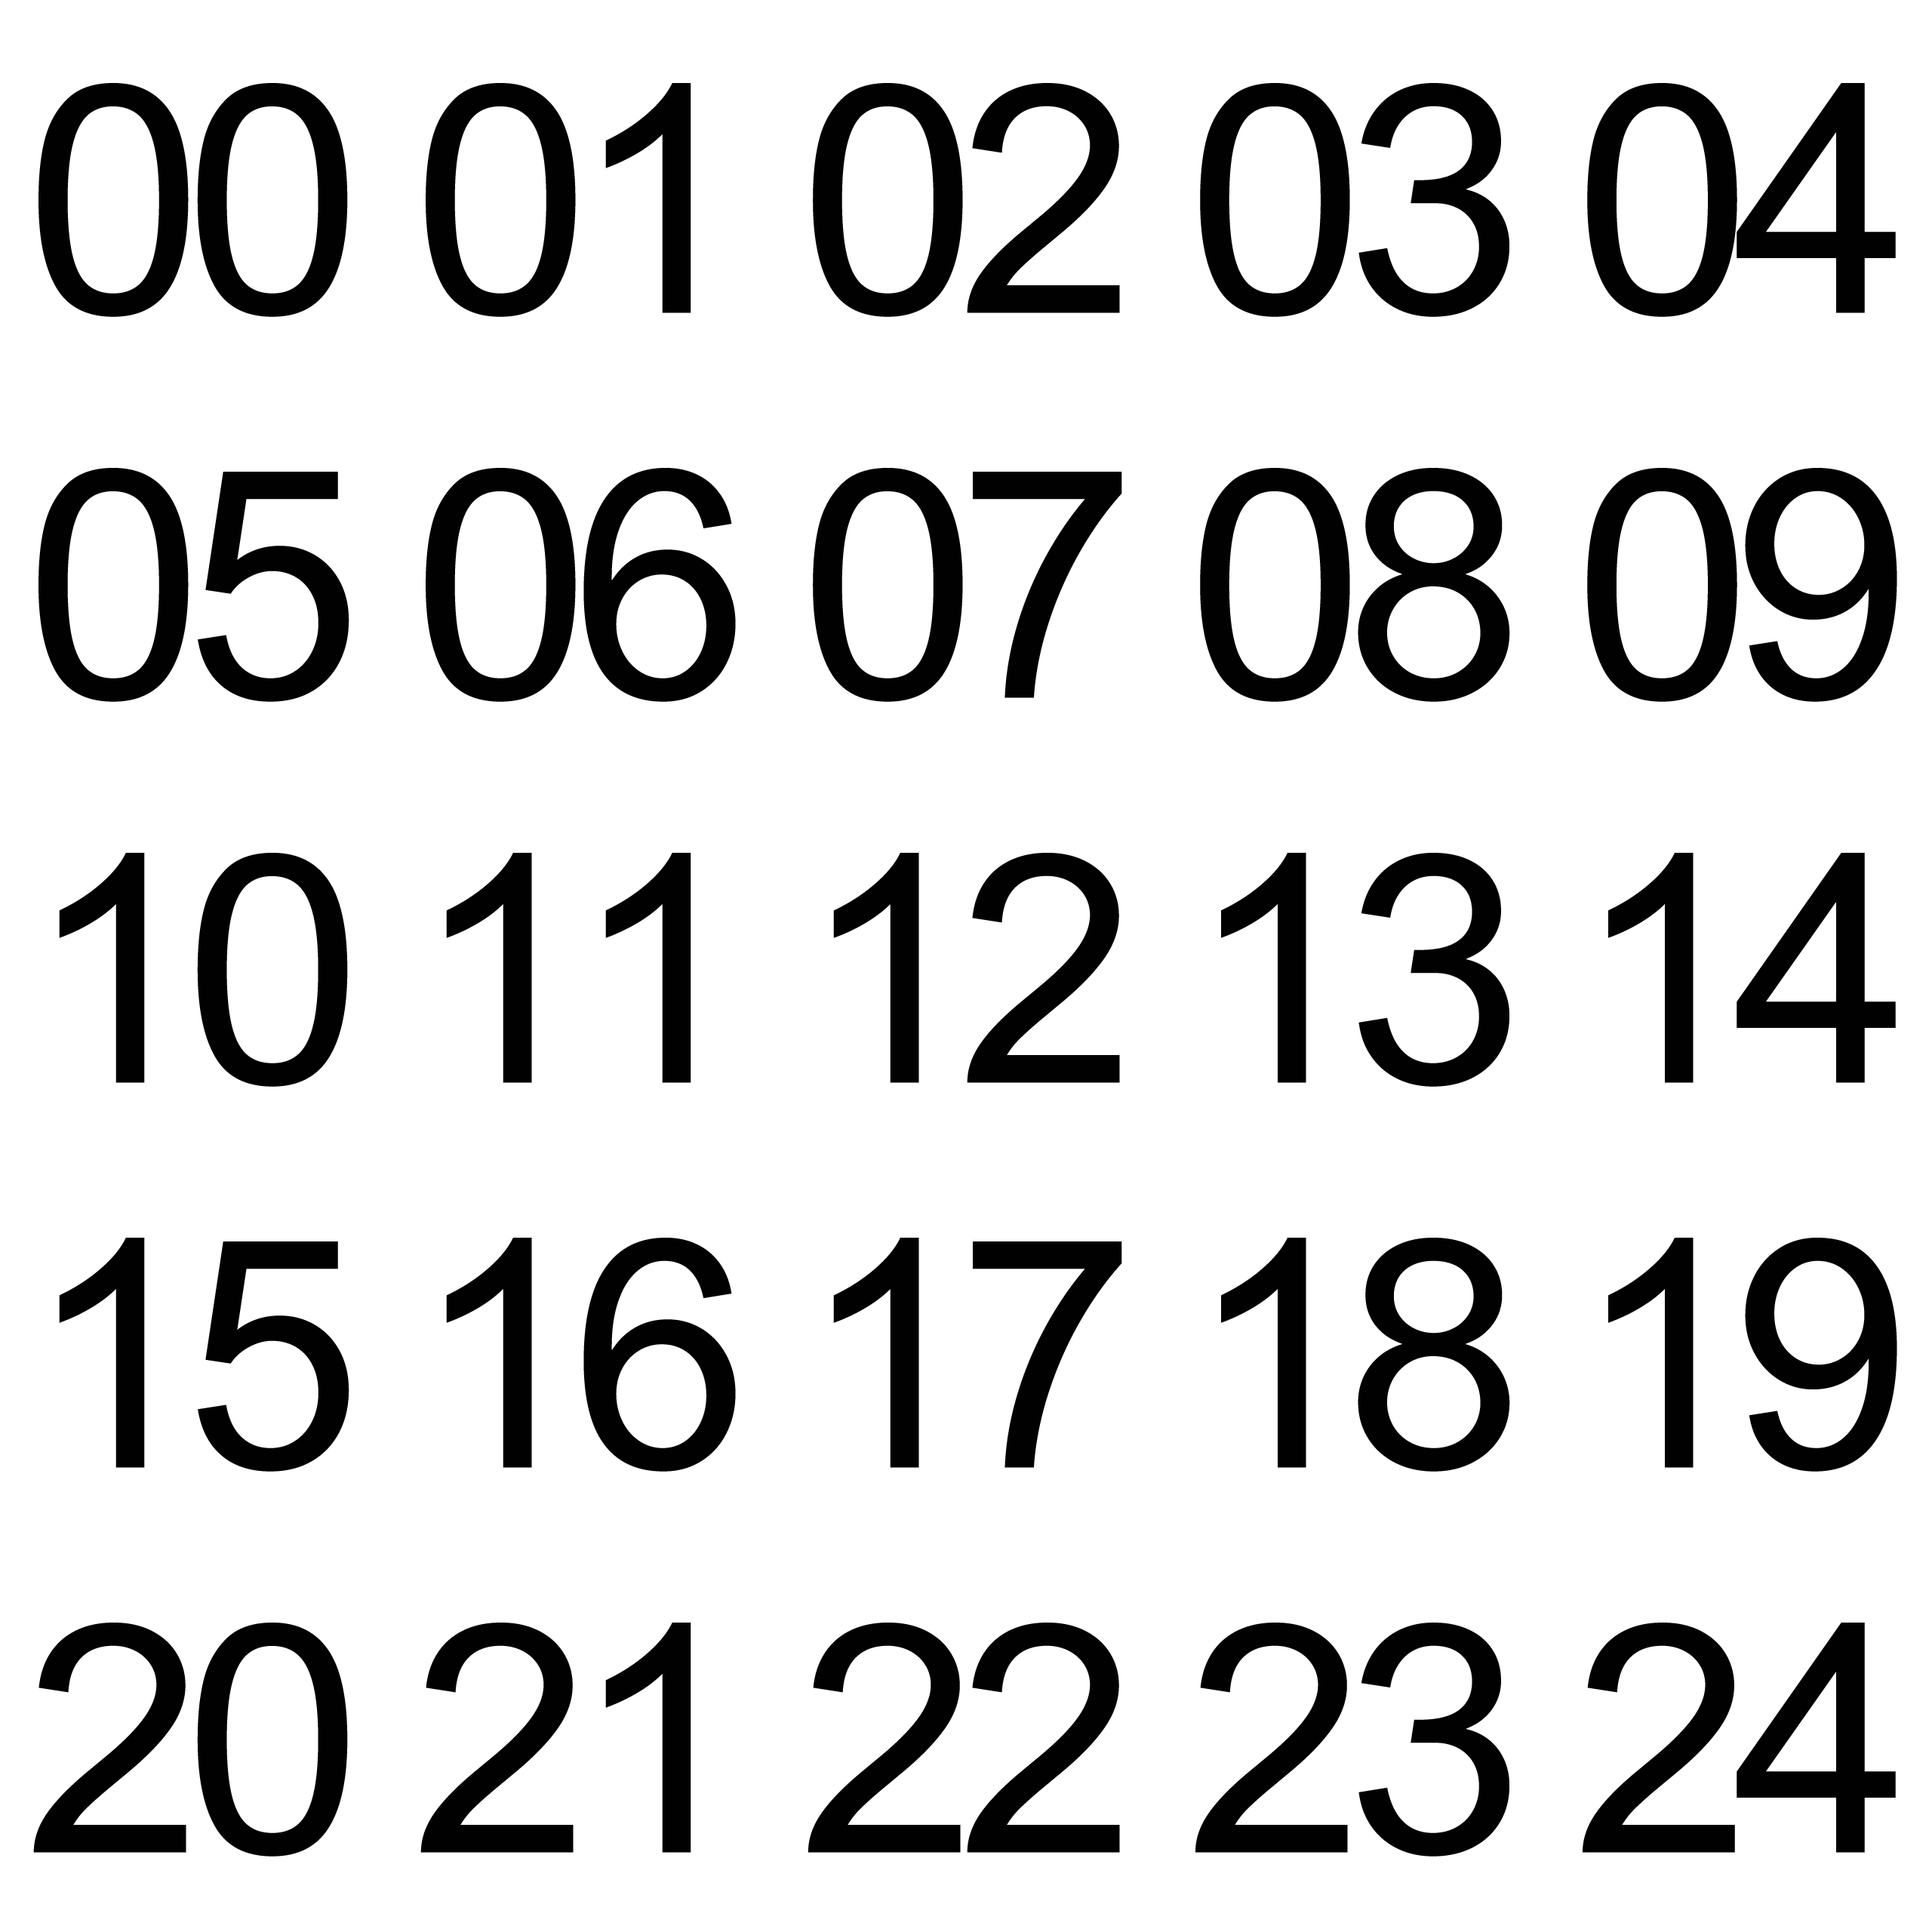
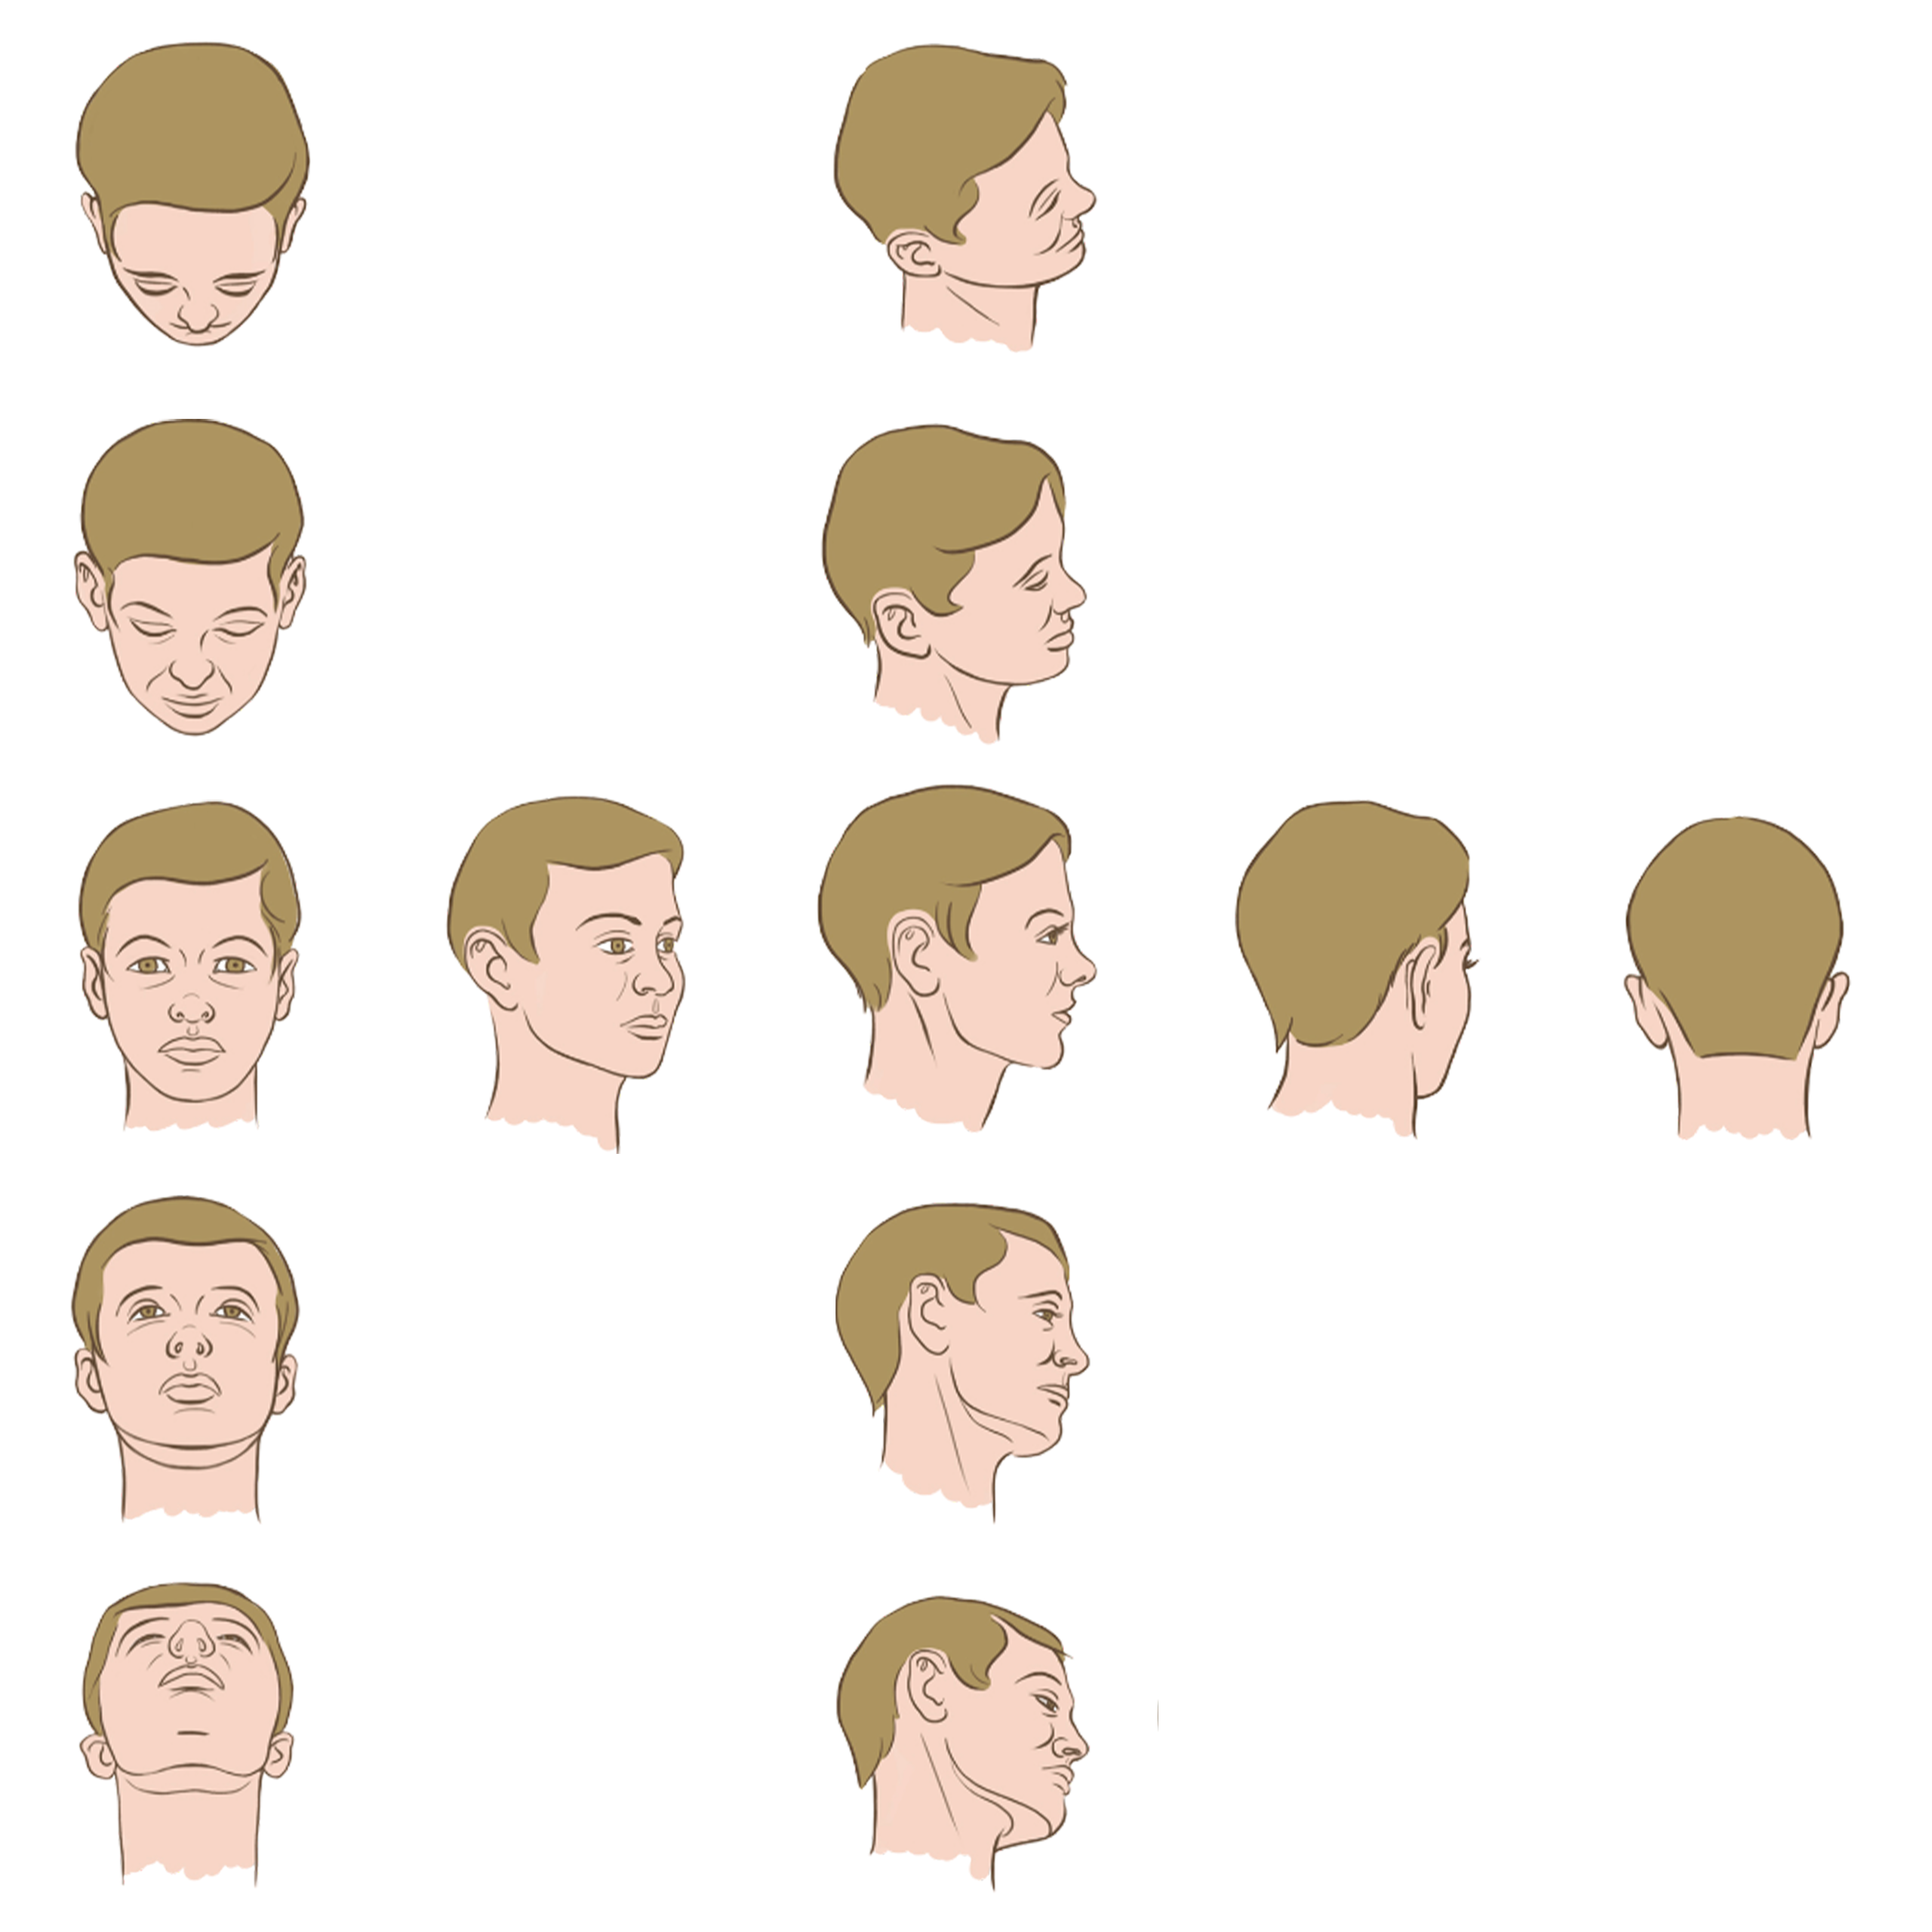
ignore

diff --git a/RayPuppet3D/main.c b/RayPuppet3D/main.c
@@ -494,13 +494,13 @@ int main(void)
         bool mirrored = false;
         switch(sector) {
             case 0: baseCol = 0; break;
-            case 1: baseCol = 1; break;
-            case 2: baseCol = 2; break;
-            case 3: baseCol = 3; break;
+            case 1: baseCol = 1; mirrored = true; break;
+            case 2: baseCol = 2; mirrored = true; break;
+            case 3: baseCol = 3; mirrored = true; break;
             case 4: baseCol = 4; break;
-            case 5: baseCol = 3; mirrored = true; break;
-            case 6: baseCol = 2; mirrored = true; break;
-            case 7: baseCol = 1; mirrored = true; break;
+            case 5: baseCol = 3; break;
+            case 6: baseCol = 2; break;
+            case 7: baseCol = 1; break;
         }
 
         float pitchNorm = (pitchAngle + (PI*0.5f)) / PI;
